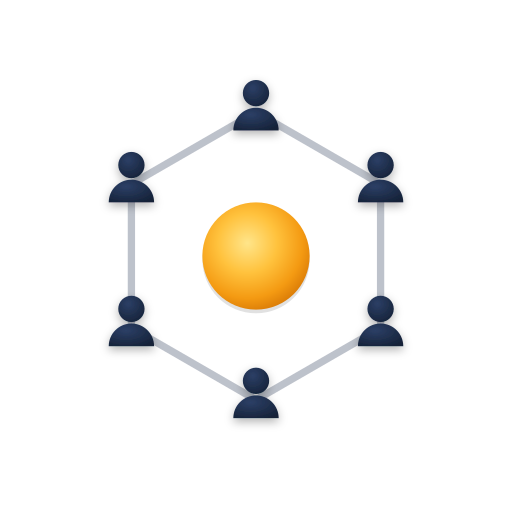
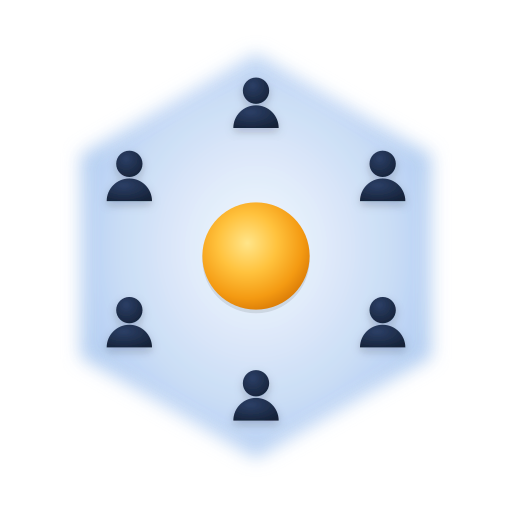
fix(brand): use the glow-hexagon mark (matches the brand sheet), not the navy tile

diff --git a/apps/leadsmartai/components/brand/CloseBossLogo.tsx b/apps/leadsmartai/components/brand/CloseBossLogo.tsx
@@ -17,11 +17,11 @@ export function CloseBossMark({ className }: { className?: string; tone?: Tone }
   return (
     // eslint-disable-next-line @next/next/no-img-element
     <img
-      src="/brand/realtyboss/realtyboss-icon-512.png"
+      src="/brand/realtyboss/realtyboss-mark-512.png"
       alt="CloseBoss"
       width={40}
       height={40}
-      className={cn("h-8 w-8 rounded-[22%]", className)}
+      className={cn("h-8 w-8", className)}
     />
   );
 }
